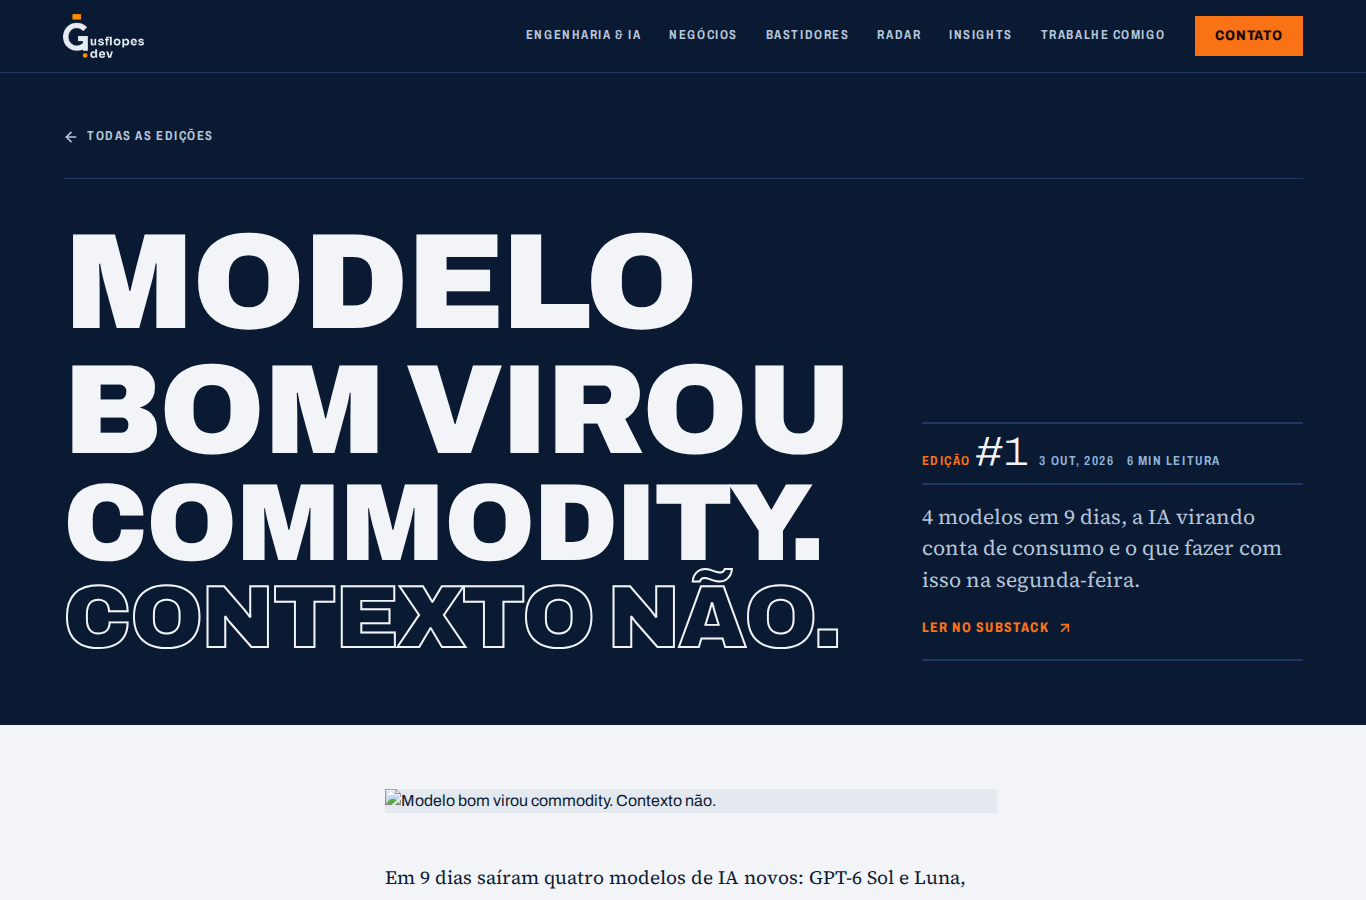
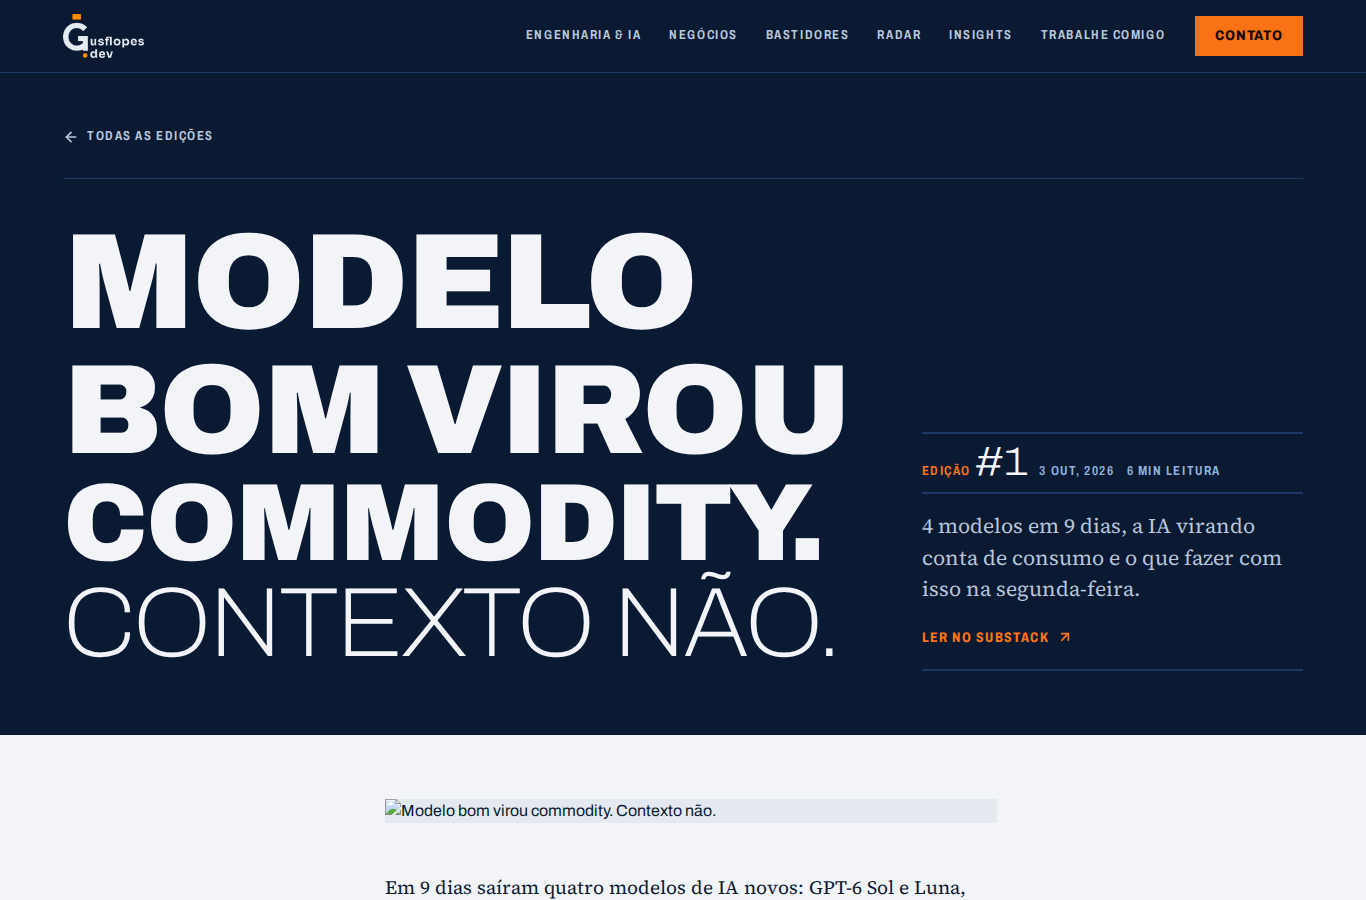
docs(design): DESIGN.md, sidecar, surface briefs e screenshots da rodada 3 (volume)
Registra o par 900/100 (contorno só no MESMO e no Simulador), a regra de volume (caixa-alta
900 uma vez por seção), a fusão de "Ideias recentes" nos eixos, o vídeo como camada de volume
baixo, o eco de 12° no play e o fim do artigo sobre papel (brief alinhado ao render).
Screenshots com imagens forçadas a eager, desktop 1366 e mobile 390.

Claude-Session: https://claude.ai/code/session_01G5QirRtrqW1g2QHV9fAH4M

diff --git a/DESIGN.md b/DESIGN.md
@@ -141,20 +141,20 @@ components:
 
 O site é uma peça de poesia concreta brasileira (Noigandres, Augusto de Campos) composta com a disciplina da escola de Ulm que Alexandre Wollner trouxe ao Brasil: a tese da marca — "Tecnologia e negócio, partes do mesmo sistema" — é montada como bloco de tipo, e todo o resto é grade rígida, filete e campo de cor chapado. Não há ilustração, foto de banco, sombra ou vidro. A única imagem é o quadro da marca (cidade noturna em pinceladas), visto por uma janela laranja girada, uma vez por página no máximo.
 
-Dois campos dividem a página em regiões inteiras: **azul-escuro** é a moldura (cabeçalhos, aberturas, tese, eixos, ferramenta, rodapé) e **papel frio** é onde se lê (corpo dos textos, listas, ideias, temas, serviços). Um campo carrega várias seções: a home troca de campo só duas vezes. O **laranja** é plano estrutural — ocupa uma célula inteira quando marca a ação principal da região (newsletter, diagnóstico, simulador) ou a ordem real (o texto mais recente de um hub) — e, fora disso, aparece como tipo (o "&" dos temas, o dois-pontos da abertura), nunca como brilho.
+Dois campos dividem a página em regiões inteiras: **azul-escuro** é a moldura (cabeçalhos, aberturas, tese, eixos, ferramenta, rodapé) e **papel frio** é onde se lê (corpo dos textos, listas, vídeo, temas, serviços). Um campo carrega várias seções: a home troca de campo só duas vezes. O **laranja** é plano estrutural — ocupa uma célula inteira quando marca a ação principal da região (newsletter, diagnóstico, simulador) ou a ordem real (o texto mais recente de um hub) — e, fora disso, aparece como tipo (o "&" dos temas, o dois-pontos da abertura), nunca como brilho.
 
 A grade rígida é o motor de toda página, não só das aberturas: cada seção é uma composição de células desenhadas pelo próprio fundo nos vãos de 2px, com tipo que ocupa a célula inteira (abertura estreita, bloco justificado) e números que só aparecem quando codificam algo verdadeiro (data, número da edição, ordem).
 
 O sistema resolve o risco declarado da direção ("ótimo para a home, difícil sustentar em 40 textos") com regras, não com composição manual: cada título vira abertura por um algoritmo determinístico (`src/lib/abertura.ts`) cuja forma depende do eixo editorial.
 
 **Key Characteristics:**
-- Aberturas tipográficas geradas do título: caixa-alta Archivo 900 (larga) ou 850/62 (estreita, títulos de seção), linhas ajustadas à largura, uma linha vazada só no contorno, separador em laranja.
+- Aberturas tipográficas geradas do título: caixa-alta Archivo 900 (larga) ou 850/62 (estreita, títulos de seção), linhas ajustadas à largura, uma linha leve (o mesmo desenho no peso 100, sólida: o par 900/100), separador em laranja. Contorno vazado só no MESMO da tese e no Simulador.
 - Laranja como plano: a ação principal de cada região é uma célula laranja inteira, com botão azul sobre ela.
 - Rótulos nunca acima do título: metadados numa célula ao lado ou numa linha depois.
 - Grade de filetes de 1–2px e células separadas por `gap` sobre fundo azul (a cor do fundo vira a linha).
 - Cantos retos em tudo (`rounded: 0`), zero sombra.
 - Leitura calma: Source Serif 4, 18–19px, 68ch, tinta azul-escuro sobre papel frio.
-- Uma janela laranja girada 12° com o quadro, no máximo uma vez por página.
+- Uma janela laranja girada 12° com o quadro, no máximo uma vez por página. O ângulo conversa com um só elemento a mais: o quadrado do play do vídeo, girado 12°.
 
 ## Colors
 
@@ -186,10 +186,11 @@ Estratégia **comprometida em dois campos**: azul-escuro e papel frio dividem a 
 Uma família de display com dois eixos substitui três famílias da maquete: o mesmo desenho dá o bloco pesado e o rótulo estreito, que é exatamente a coerência de sistema que a escola de Ulm pedia.
 
 ### Hierarchy
-- **Tese** (900, line-height 0,86, sem respiro entre linhas): o bloco da home, cinco linhas, "e negócio," menor em laranja, MESMO vazado.
+- **Tese** (900, line-height 0,86, sem respiro entre linhas): o bloco da home, cinco linhas, "e negócio," menor em laranja, MESMO vazado (um dos dois contornos do site).
 - **Abertura larga** (900, caixa-alta, line-height 0,92, tracking −0,02em): títulos de texto, hubs, 404, páginas legais e as seções de tese da home (Ferramenta, Temas, Serviços). Corpo por linha em `cqi`, calculado no build; teto 7,5–11rem.
-- **Abertura estreita** (850, largura 62%, word-spacing 0,12em): títulos de seção que precisam de outra textura — "O que eu escrevo, e para quem", nomes dos eixos, "Ideias recentes", "Vídeo em Destaque", "Edições". Mesmas regras, métricas próprias.
-- **Bloco de célula** (850/62): nomes curtos de temas e serviços em duas linhas justificadas na largura da célula, "&" em laranja profundo; sem linha vazada.
+- **Abertura estreita** (850, largura 62%, word-spacing 0,12em): títulos de seção que precisam de outra textura — "O que eu escrevo, e para quem", "Edições". Mesmas regras, métricas próprias.
+- **Linha leve** (100, mesma largura da instância): a linha marcada de toda abertura, sólida, medida com as larguras do peso 100 (`abertura-metricas.json` traz `leve` e `estreita.leve`).
+- **Nome de célula** (`.nome-celula`, 780, largura 72%, caixa mista, 1,75–2,5rem): nomes dos temas, serviços e eixos, "Vídeo em Destaque" e a ação "Fazer o diagnóstico". Quebra no " & ", com o "&" em laranja profundo no fim da primeira linha.
 - **Numeral** (250, largura 125%, tabular): o dia nas listas e o número da edição. Leve e largo contra o bloco pesado — o contraste de peso faz a hierarquia.
 - **Display** (900, caixa-alta, 2–3rem): títulos auxiliares (nome do simulador em Bastidores, caminhos do 404).
 - **Título de lista** (800, largura 87%, 1,5–1,875rem, caixa normal): itens de hubs e listas; o mais recente do hub sobe para 900 caixa-alta.
@@ -198,9 +199,11 @@ Uma família de display com dois eixos substitui três famílias da maquete: o m
 - **Leitura** (Source Serif 4, 18px no celular, 19px a partir de 768px, line-height 1,7, máx. 68ch).
 
 ### Named Rules
-**The Abertura Rule.** Todo título de texto (artigo, edição, hub, seção de tese) é desenhado por `src/lib/abertura.ts`: corte no primeiro ": " (ou travessão, ou parêntese) em cabeça e cauda; palavras curtas grudam na seguinte; 1–5 linhas pelo comprimento; partição mais equilibrada pelas larguras reais dos glifos (`src/lib/abertura-metricas.json`, gerado por `scripts/gerar-metricas-abertura.mjs`). Forma por eixo: **Engenharia & IA / Newsletter = bloco** (linhas justificadas, última vazada); **Negócios = escada** (larguras decrescentes, à direita, primeira vazada); **Bastidores = degraus** (corpo único, recuo progressivo, linha do meio vazada).
+**The Abertura Rule.** Todo título de texto (artigo, edição, hub, seção de tese) é desenhado por `src/lib/abertura.ts`: corte no primeiro ": " (ou travessão, ou parêntese) em cabeça e cauda; palavras curtas grudam na seguinte; 1–5 linhas pelo comprimento; partição mais equilibrada pelas larguras reais dos glifos (`src/lib/abertura-metricas.json`, gerado por `scripts/gerar-metricas-abertura.mjs`). Forma por eixo: **Engenharia & IA / Newsletter = bloco** (linhas justificadas, última leve); **Negócios = escada** (larguras decrescentes, à direita, primeira leve); **Bastidores = degraus** (corpo único, recuo progressivo, linha do meio leve). A linha marcada é peso 100 sólido; `vazado: true` troca por contorno (só o Simulador usa).
 
-**The One Outline Rule.** Uma linha vazada por bloco, nunca mais. Se a cabeça tem uma linha só, nenhuma. Blocos de célula e títulos de lista nunca vazam.
+**The One Outline Rule.** O contorno vazado existe em dois lugares do site: MESMO, na tese, e a linha do meio do Simulador. Toda outra abertura marca a linha com o peso 100 sólido. Se a cabeça tem uma linha só, nenhuma linha é marcada. Nomes de célula e títulos de lista nunca vazam.
+
+**The Volume Rule.** Caixa-alta 900 é uma por seção: a abertura. Tudo que vive dentro da seção (nomes de tema, serviço, eixo, ações) fala em estreita 780 caixa mista. Pelo menos uma camada da home abre em volume baixo (o vídeo), para as outras voltarem a pesar.
 
 **The Two Instances Rule.** A instância larga é a voz das teses e dos textos; a estreita é a voz das seções. Pesos e larguras variam dentro do Archivo (900/100, 850/62, 250/125) para criar hierarquia sem empilhar caixa-alta 900 em todo título.
 
@@ -214,10 +217,10 @@ Grades de células usam `gap: 2px` sobre um fundo (azul no papel, azul-3 no azul
 
 ### Home, seção por seção (trabalho → composição)
 - **Tese** (entender a proposta): bloco de cinco linhas a .86; a janela encaixa no vão de MESMO/SISTEMA no celular e sangra na borda direita no desktop. Faixa de grade: metadados à esquerda, frase e apoio no meio, plano laranja da newsletter à direita, encostado na seção seguinte.
-- **Eixos** (escolher por onde entrar): plano laranja alto com a pergunta em abertura estreita, encostado em três linhas de papel; o nome de cada eixo ocupa a célula na forma do próprio eixo; "Mais recente" numa célula ao lado do título do texto.
-- **Ferramenta** (experimentar agora): grade de filetes azul-3; abertura em degraus + célula de metadados; a ação é a própria célula laranja.
-- **Ideias e vídeo** (ver o que saiu): "Ideias recentes" numa linha estreita da largura toda; linhas de tabela com data; o vídeo fecha numa linha de duas células (título à esquerda, célula azul inteira como link).
-- **Temas** (entender quem escreve): abertura em bloco + trajetória; os cinco temas numa partição 3 + 2 com nomes justificados na célula.
+- **Eixos** (escolher por onde entrar e ver o que saiu em cada porta): plano azul-2 alto com a pergunta em papel (abertura estreita), encostado em três linhas de papel. O plano saiu do laranja porque não é ação. Nome de cada eixo em estreita 780 caixa mista; os dois textos mais recentes do eixo descem como linhas de tabela dos hubs (dia em numeral leve, "Mês, ano", "Mais recente" no primeiro). "Ideias recentes" foi fundida aqui.
+- **Ferramenta** (experimentar agora): grade de filetes azul-3; abertura em degraus com a linha do meio vazada (o segundo e último contorno do site) + célula de metadados; a ação é a própria célula laranja.
+- **Vídeo** (assistir a uma coisa só): a camada de volume baixo. Abre o campo de papel com "Vídeo em Destaque" em nome de célula, sem bloco de tipo; linha de duas células (título à esquerda, célula azul inteira como link), quadrado laranja do play girado 12° que endireita no hover.
+- **Temas** (entender quem escreve): abertura em bloco + trajetória; os cinco temas numa partição 3 + 2 desenhada pelo fundo azul nos vãos (no celular, só filete de topo em cada tema, sem caixas), nomes em estreita 780 caixa mista.
 - **Serviços** (entender o que contratar): abertura em escada à direita; as três ofertas descem em degraus a partir dela.
 - **Rodapé**: células com filetes azul-3; a coluna da newsletter é o plano laranja.
 
@@ -225,20 +228,20 @@ Header fixo de 72px; páginas de texto trocam o header por uma barra de 56px (vo
 
 ## Elevation & Depth
 
-Plano. Nenhuma sombra, nenhum blur, nenhum vidro. Profundidade só por campo de cor (azul sobre papel, laranja sobre azul) e pela rotação de 12° da janela.
+Plano. Nenhuma sombra, nenhum blur, nenhum vidro. Profundidade só por campo de cor (azul sobre papel, laranja sobre azul) e pela rotação de 12° da janela (ecoada uma vez, no play do vídeo).
 
 ### Named Rules
 **The Flat Plane Rule.** Se algo precisa se destacar, muda de campo ou de peso — não ganha sombra.
 
 ## Shapes
 
-Cantos retos em tudo: botões, células, inputs, blocos de código, foto do autor (quadrada, em tons de cinza). A única forma não ortogonal é a janela: um quadrado laranja girado 12° com o quadro contra-girado dentro. Marcadores de lista e de citação são quadrados laranja.
+Cantos retos em tudo: botões, células, inputs, blocos de código, foto do autor (quadrada, em tons de cinza). As únicas formas não ortogonais são a janela (um quadrado laranja girado 12° com o quadro contra-girado dentro) e o seu eco, o quadrado do play do vídeo, no mesmo ângulo. Marcadores de lista e de citação são quadrados laranja.
 
 ## Components
 
 ### Buttons
 - **Primário (`.botao`)**: bloco laranja, texto `#1C0A02`, Archivo 800 largura 87% em caixa-alta, 52px de altura, canto reto. Hover: vira papel com tinta azul (sobre azul) ou azul com tinta papel (sobre papel). Dentro de um plano laranja (`.campo-laranja`) inverte: bloco azul, texto papel.
-- **Célula de ação (`.celula-acao`)**: a célula laranja inteira é o link, rótulo estreito 850/62 em caixa-alta e seta SVG no canto; hover vira papel.
+- **Célula de ação (`.celula-acao`)**: a célula laranja inteira é o link, rótulo estreito 800/72 em caixa mista e seta SVG no canto; hover vira papel.
 - **Ação (`.acao`)**: rótulo laranja com seta; sublinhado de 2px aparece no hover. Laranja `#F97316` sobre azul, `#C2410C` sobre papel.
 
 ### Chips (filtros)
@@ -258,7 +261,7 @@ Header azul chapado, itens em rótulo céu-claro; o ativo fica papel com uma bar
 `<Abertura titulo eixo as teto />` (`src/components/Abertura.tsx`). Renderiza o heading com o título completo na ordem original; cada linha é um `span` com `--fit` (cqi) e `--recuo`; o heading é contêiner de tamanho (`container-type: inline-size`). O mesmo dado alimenta o gerador de capas do Substack (`docs/substack-kit/gerar-capa.mjs`).
 
 ### Janela (signature component)
-Bloco laranja girado 12°, inset de 9%, com o quadro (AVIF/WebP responsivo) contra-girado e ampliado dentro. Com `animation-timeline: view()` o quadro desliza ±7% dentro da janela durante o scroll; desligado em `prefers-reduced-motion`. Uso: uma vez por página, no máximo (hoje só no hero da home e nas capas do Substack). Posição: no celular encaixa no vão à direita de MESMO/SISTEMA (sem tocar glifo) e sangra na borda; no desktop encosta no bloco da tese e sangra ~18% na borda direita (`.tese-janela`).
+Bloco laranja girado 12°, inset de 9%, com o quadro (AVIF/WebP responsivo) contra-girado e ampliado dentro. Com `animation-timeline: view()` o quadro desliza ±7% dentro da janela durante o scroll; desligado em `prefers-reduced-motion`. Uso: uma vez por página, no máximo (hoje só no hero da home e nas capas do Substack). Posição: no celular tem ~42% da largura da tela (46cqi), começa logo abaixo de PARTES DO (sem cobrir o DO), à direita de MESMO/SISTEMA, e sangra na borda direita; o bloco ganha respiro embaixo para ela; no desktop encosta no bloco da tese e sangra ~18% na borda direita (`.tese-janela`).
 
 ### Corpo de leitura (`.leitura`)
 H2 em Archivo 850 com filete de 2px acima; H3 em 800/87%; links laranja profundo sublinhados; listas com quadrado laranja; citação em itálico entre filetes com quadrado laranja; código em bloco azul-escuro (tema Shiki), código inline em papel 2; tabelas em rótulo + tabular-nums.
@@ -277,7 +280,8 @@ H2 em Archivo 850 com filete de 2px acima; H3 em 800/87%; links laranja profundo
 
 ### Don't:
 - **Don't** pôr o quadro ou qualquer textura atrás de texto corrido; ele só aparece dentro da janela.
-- **Don't** usar mais de uma janela por página, nem mais de uma linha vazada por bloco.
+- **Don't** usar mais de uma janela por página, nem contorno vazado fora do MESMO e do Simulador.
+- **Don't** empilhar caixa-alta 900 dentro de uma seção: uma abertura por seção, o resto em caixa mista.
 - **Don't** usar sombra, blur, vidro, degradê, cantos arredondados ou cards com borda.
 - **Don't** usar caixa-alta em texto com mais de uma linha curta (rótulos só para metadados curtos).
 - **Don't** pôr rótulo curto em caixa-alta acima de um título.

diff --git a/.impeccable/surfaces/src-pages-index-astro.md b/.impeccable/surfaces/src-pages-index-astro.md
@@ -15,11 +15,11 @@ Direção fixada pelo dono: **3. Concretismo** (maquete `data-k="6"` da página 
 
 THESIS: a tese da marca é montada como construção tipográfica — "Tecnologia e negócio, partes do mesmo sistema" empilhada em blocos de tipo sobre azul-escuro. Recusa o hero de foto com degradê, título centrado e cards com brilho.
 
-OWN-WORLD: azul-escuro `#0B1A33` como campo, papel frio `#F2F4F7` como segundo campo, laranja `#F97316` em blocos chapados; Archivo variável (900/100 display, 600/75 rótulos) + Source Serif 4 para leitura. Grade rígida de filetes de 1–2px, cantos retos, zero sombra, zero vidro. Uma palavra vazada só no contorno por bloco.
+OWN-WORLD: azul-escuro `#0B1A33` como campo, papel frio `#F2F4F7` como segundo campo, laranja `#F97316` em blocos chapados; Archivo variável (900/100 display, 600/75 rótulos) + Source Serif 4 para leitura. Grade rígida de filetes de 1–2px, cantos retos, zero sombra, zero vidro. Par 900/100: a linha marcada de cada abertura no peso 100 sólido; contorno vazado só no MESMO da tese e no Simulador. Caixa-alta 900 uma vez por seção; nomes dentro da seção em estreita 780 caixa mista.
 
 STORY: o visitante lê a tese como poema concreto, entende que é uma pessoa que junta negócio e engenharia, escolhe a porta (Engenharia & IA / Negócios / Bastidores) e assina.
 
-FIRST VIEWPORT: tese em 5 linhas ajustadas à largura, entrelinha .86 (TECNOLOGIA / e negócio, em laranja menor / PARTES DO / MESMO vazado / SISTEMA) ocupando ~3/4 da largura; a janela laranja girada 12° com o quadro (única da página) encaixa no vão de MESMO/SISTEMA no celular e sangra na borda direita no desktop. Abaixo, faixa de grade: metadados | frase e apoio | plano laranja da newsletter, encostado nos eixos.
+FIRST VIEWPORT: tese em 5 linhas ajustadas à largura, entrelinha .86 (TECNOLOGIA / e negócio, em laranja menor / PARTES DO / MESMO vazado / SISTEMA) ocupando ~3/4 da largura; a janela laranja girada 12° com o quadro (única da página) no celular tem ~42% da largura da tela, começa abaixo de PARTES DO (sem cobrir o DO), no vão à direita de MESMO/SISTEMA, e sangra na borda direita; no desktop encosta no bloco e sangra na borda direita. Abaixo, faixa de grade: metadados | frase e apoio | plano laranja da newsletter, encostado nos eixos.
 
 FORM: sistema tipográfico concreto (poesia concreta Noigandres + escola de Ulm/Wollner); 1º e único da lista — direção escolhida pelo dono; seed key: n/a (decisão fixada, sem sorteio).
 
@@ -44,4 +44,19 @@ Ordem nova e porquê: tese → eixos → ferramenta → ideias e vídeo → tema
 
 Regra de laranja: chapado numa célula inteira = a ação principal da região, ou a ordem real (texto mais recente nos hubs). Regra de número: só data, número de edição ou ordem real; nada de 01/02/03 decorativo.
 
-Corte proposto (não aplicado): "Ideias recentes" repete parcialmente o "Mais recente" de cada eixo; dá para fundir as duas listas no futuro.
+Corte proposto na rodada 2 e aplicado na rodada 3 (aval do dono): ver abaixo.
+
+## Rodada 3 — volume
+
+Mandato do dono: "o hero prende a atenção, depois cada uma das camadas conquista". A grade fica; o conserto é volume. Cada camada continua com gesto próprio, mas nenhuma grita tão alto quanto as vizinhas.
+
+Ordem final: tese → eixos (com os textos recentes) → ferramenta → vídeo → temas → serviços → rodapé. Campos: azul (tese, eixos, ferramenta) → papel (vídeo, temas, serviços) → azul (rodapé). Duas trocas.
+
+- **Volume:** caixa-alta 900 só na abertura de cada seção. Nomes de eixos, temas e serviços, "Vídeo em Destaque" e "Fazer o diagnóstico" em Archivo estreita 780 caixa mista (as strings já são caixa mista na fonte; só CSS).
+- **Par 900/100:** a linha marcada de toda abertura (última no bloco, primeira na escada, a do meio nos degraus) é o mesmo desenho no peso 100, sólida, medida com as larguras do peso 100. Contorno vazado só em MESMO e no Simulador.
+- **Eixos** — escolher por onde entrar e ver o que saiu em cada porta. "Ideias recentes" fundida aqui: cada porta mostra os dois textos mais recentes como linhas de tabela dos hubs (dia em numeral leve, "Mês, ano", "Mais recente" no primeiro); os dois insights mais recentes do site sempre entram. O plano da pergunta saiu do laranja (não é ação) para azul-2, com a pergunta em papel.
+- **Vídeo** — assistir a uma coisa só. A camada de volume baixo, de propósito: abre o papel depois do Simulador (a camada mais alta) com o título em caixa mista, sem bloco de tipo, para os temas voltarem a pesar. Gesto: o quadrado laranja do play girado 12°, o mesmo ângulo da janela (único eco do giro fora do hero); endireita no hover.
+- **Temas no celular:** só filete de topo em cada tema, sem caixas fechadas.
+- **Hero:** metadados sem "·" pendurado (cada item sem quebra; o separador vai com o item seguinte); janela do celular maior, como no FIRST VIEWPORT acima.
+
+Teste do dono, camada a camada: tese (bloco + janela, conquista), eixos (plano azul alto + três linhas de papel com tabela datada, conquista), ferramenta (degraus vazados + célula laranja de ação, conquista — é a mais alta), vídeo (calma deliberada: duas células e o play girado; conquista pelo contraste, não pelo volume), temas (bloco 900/100 + partição 3+2, conquista), serviços (escada à direita + ofertas em degraus, conquista).

diff --git a/.impeccable/surfaces/src-pages-insights-article-id-astro.md b/.impeccable/surfaces/src-pages-insights-article-id-astro.md
@@ -13,7 +13,7 @@ Escopo: `/insights/article/*`, `/radar/article/*`, `/newsletter/*`, hubs `/insig
 
 THESIS: a abertura de cada texto é gerada do próprio título por um sistema determinístico de quebra, escala e peso (por eixo); o corpo é uma coluna calma de serifa. Recusa a foto de banco no topo e o título serifado centrado.
 
-OWN-WORLD: moldura azul-escuro `#0B1A33` com o título em blocos de Archivo 900 caixa-alta ajustados à largura, uma palavra/linha vazada, dois-pontos em laranja; corpo em Source Serif 4 ~19px sobre papel frio `#F2F4F7`, tinta azul-escuro, links laranja profundo `#C2410C`. Hubs: tabela de grade rígida, filetes, sem cards nem sombra.
+OWN-WORLD: moldura azul-escuro `#0B1A33` com o título em blocos de Archivo 900 caixa-alta ajustados à largura, a linha marcada no peso 100 sólido (par 900/100), dois-pontos em laranja; corpo em Source Serif 4 ~19px sobre papel frio `#F2F4F7`, tinta azul-escuro, links laranja profundo `#C2410C`. Hubs: tabela de grade rígida, filetes, sem cards nem sombra.
 
 STORY: o leitor reconhece o eixo pela forma da abertura (bloco justificado = Engenharia & IA; escada alinhada à direita = Negócios; degraus = Bastidores), lê sem atrito e encontra o autor e a newsletter no fim.
 
@@ -26,6 +26,11 @@ FINISH: unreviewed and undocumented is unfinished; this build ends with the fini
 ## Rodada 2 — hubs, fim do artigo, newsletter
 
 - **Hubs** (achar o próximo texto): linhas de tabela; o dia como numeral leve e largo, "Mês, ano" e duração em rótulo; o texto mais recente (sem filtro) tem a célula de data em plano laranja e o título em 900 caixa-alta. Bastidores: o simulador vira grade de células com metadados ao lado do título e a ação como célula laranja.
-- **Fim do artigo** (saber quem escreveu e continuar): grade de duas células sobre azul — autor (foto, nome em estreita, "Sobre o Autor" em linha de metadados depois do nome, bio, redes) e o plano laranja da newsletter.
+- **Fim do artigo** (saber quem escreveu e continuar): grade de duas células sobre o papel, desenhada por filete azul de 2px — autor (foto, nome em estreita, "Sobre o Autor" em linha de metadados depois do nome, bio, redes) e o plano laranja da newsletter.
 - **Newsletter** (assinar e achar uma edição): plano laranja de inscrição; "Edições" em abertura estreita; cada edição com "Edição #N · data" numa célula ao lado do título, o número em numeral grande. Página da edição: metadados e linha-fina numa coluna de células ao lado da abertura; "Ler no Substack" com seta SVG.
-- **404 e legais**: abertura gerada do título, metadados ("Erro 404", "Última atualização") em célula ao lado; uma linha vazada só ("DE LUGAR").
+- **404 e legais**: abertura gerada do título, metadados ("Erro 404", "Última atualização") em célula ao lado; a linha marcada leve, peso 100 ("DE LUGAR").
+
+## Rodada 3
+
+- Aberturas de texto, hub, 404 e legais: a linha marcada deixa de ser vazada e passa a peso 100 sólido, medida com as larguras do peso 100; a forma por eixo e o corte determinístico do título não mudam. O gerador de capa do Substack segue a mesma regra.
+- Fim do artigo: o brief passa a descrever o que está construído — autor e newsletter sobre o papel, numa grade de duas células com filete azul; a newsletter continua como plano laranja (decisão do dono: fica).
